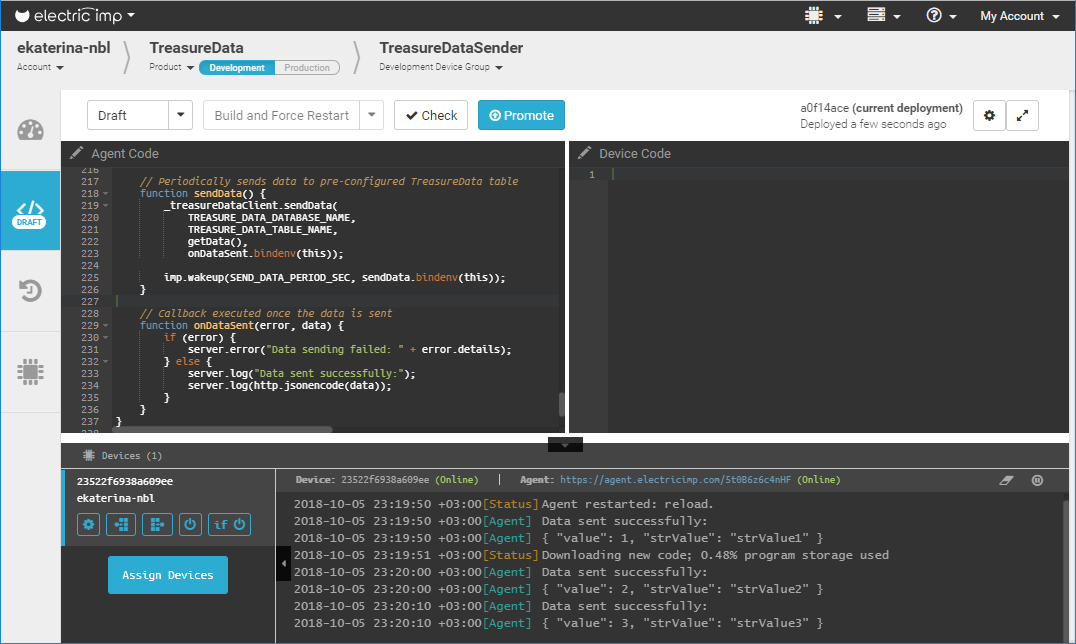
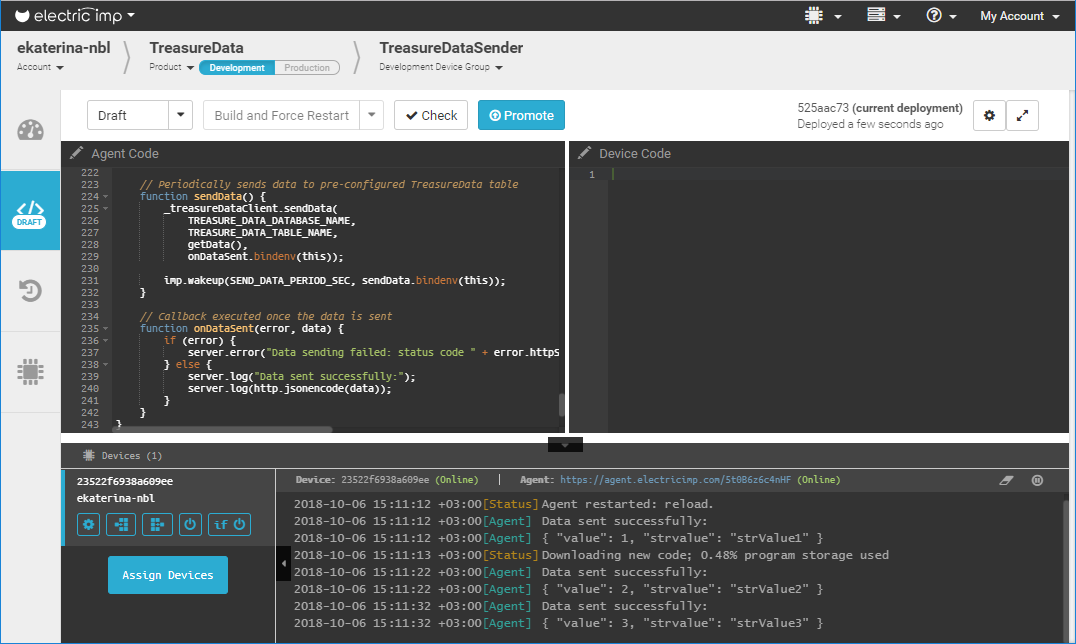
minor updates

diff --git a/Examples/README.md b/Examples/README.md
@@ -45,7 +45,7 @@ This example sends data into a preconfigured Treasure Data table:
 - Return to your [Treasure Data account](https://console.treasuredata.com).
 - Choose **Databases** in the left menu and click **test_database** database.
 - Click **test_table** table.
-- Ensure **test_table** contains **strValue** and **value** columns and some records are displayed in the table preview.
+- Ensure **test_table** contains **strvalue** and **value** columns and some records are displayed in the table preview.
 
 **Note 1:** The data appears in the table preview with **4~5 minutes delay** after sending.
 

diff --git a/README.md b/README.md
@@ -58,7 +58,18 @@ This method returns nothing. The result of the operation may be obtained via the
 | *data* | Key-Value Table | The original data passed to the `sendData()` method |
 
 ```
-TODO
+const DATABASE_NAME = "<YOUR_DATABASE_NAME>";
+const TABLE_NAME = "<YOUR_TABLE_NAME>";
+
+treasureData.sendData(
+    DATABASE_NAME,
+    TABLE_NAME,
+    { "column1" : "value", "column2" : 123 },
+    function (error, data) {
+        if (error) {
+            server.error("Data sending failed: status code " + error.httpStatus);
+        }
+    }.bindenv(this));
 ```
 
 ### setDebug(*value*) ###
